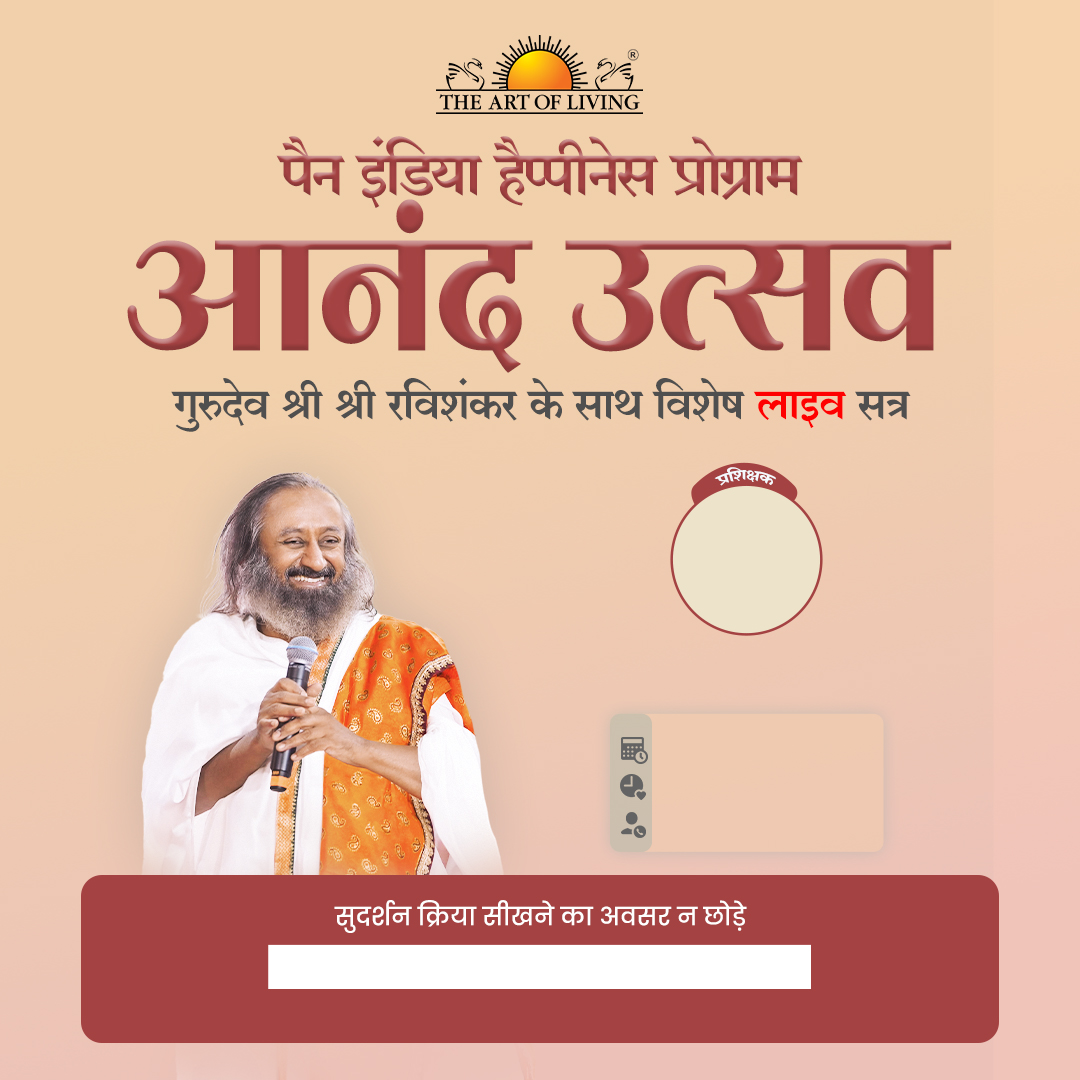
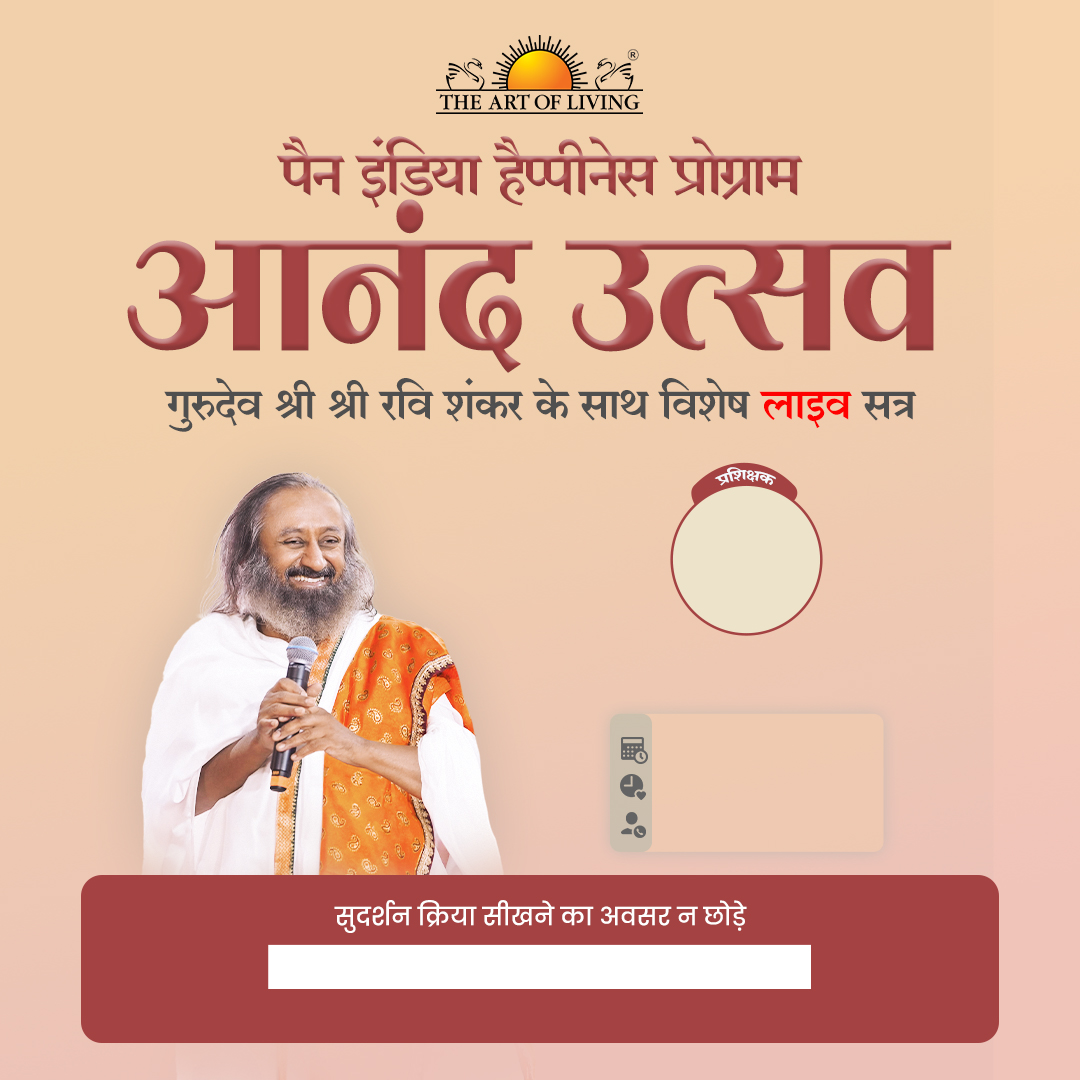
thi is today

Changed region(s): [[0.1528, 0.3361, 0.8556, 0.3972]]

diff --git a/src/index.css b/src/index.css
@@ -644,13 +644,14 @@ image-resolution: 300dpi;
   font-size: 22px;
   text-align: left;
   top: 88.4%;
-  left: 73.8%;
+  left: 78%;
   transform: translate(-50%, -50%);
   color: #a44242;
   margin: 0px;
   padding: 0px;
   font-family:'gotham';
   font-weight: bold;
+  direction: ltr;
 
    
 }
@@ -764,10 +765,10 @@ image-resolution: 300dpi;
   position: absolute;
   line-height: 1;
   width: 100%;
-  font-size: 24px;
+  font-size: 25px;
   text-align: left;
   top: 89.5%;
-  left: 80%;
+  left: 84%;
   transform: translate(-50%, -50%);
   color: #a44242;
   margin: 0px;
@@ -1342,7 +1343,7 @@ color: #878787;
 
 .ntabs
 {
-  /* background-color: #f48a21; */
+  background-color: #f48a21;
   border: none;
 
 }

diff --git a/src/Components/Posters/anandutsavhindisquare.jsx b/src/Components/Posters/anandutsavhindisquare.jsx
@@ -13,7 +13,7 @@ const Anandutsavhindisquare = () => {
   const handleShow = () => setShow(true);
 
   const [Teachersname, setTeachersName] = useState('रोहित शर्मा');
-  const [link, setLink] = useState('Registration Link: aolic.org/12345');
+  const [link, setLink] = useState('रजिस्टर करें: aolic.org/12345');
   const [date, setDate] = useState('13th -16th August');
   const [time, setTime] = useState('6:00-9:00AM');
   const [contact, setContact] = useState('9036425223');

diff --git a/src/Components/Posters/anandutsavhindi.jsx b/src/Components/Posters/anandutsavhindi.jsx
@@ -13,7 +13,7 @@ const Anandutsavhindi = () => {
   const handleShow = () => setShow(true);
 
   const [Teachersname, setTeachersName] = useState('रोहित शर्मा');
-  const [link, setLink] = useState('Registration Link: aolic.org/12345');
+  const [link, setLink] = useState('रजिस्टर करें: aolic.org/12345');
   const [date, setDate] = useState('13th -16th August');
   const [time, setTime] = useState('6:00-9:00AM');
   const [contact, setContact] = useState('9036425223');

diff --git a/src/Components/Posters/landingpage.jsx b/src/Components/Posters/landingpage.jsx
@@ -63,14 +63,14 @@ Official Flyer Making Site
 
 
 
-<div className="container mt-2">
+<div className="container">
 
 
 
       <Tabs 
         defaultActiveKey="anandutsav" 
         id="uncontrolled-tab-example"
-        className="mb-3 justify-content-center ntabs"
+        className="mb-3 justify-content-center ntabs "
       >
                 <Tab eventKey="anandutsav" id="anandutsav" title="Anand Utsav">
                 
